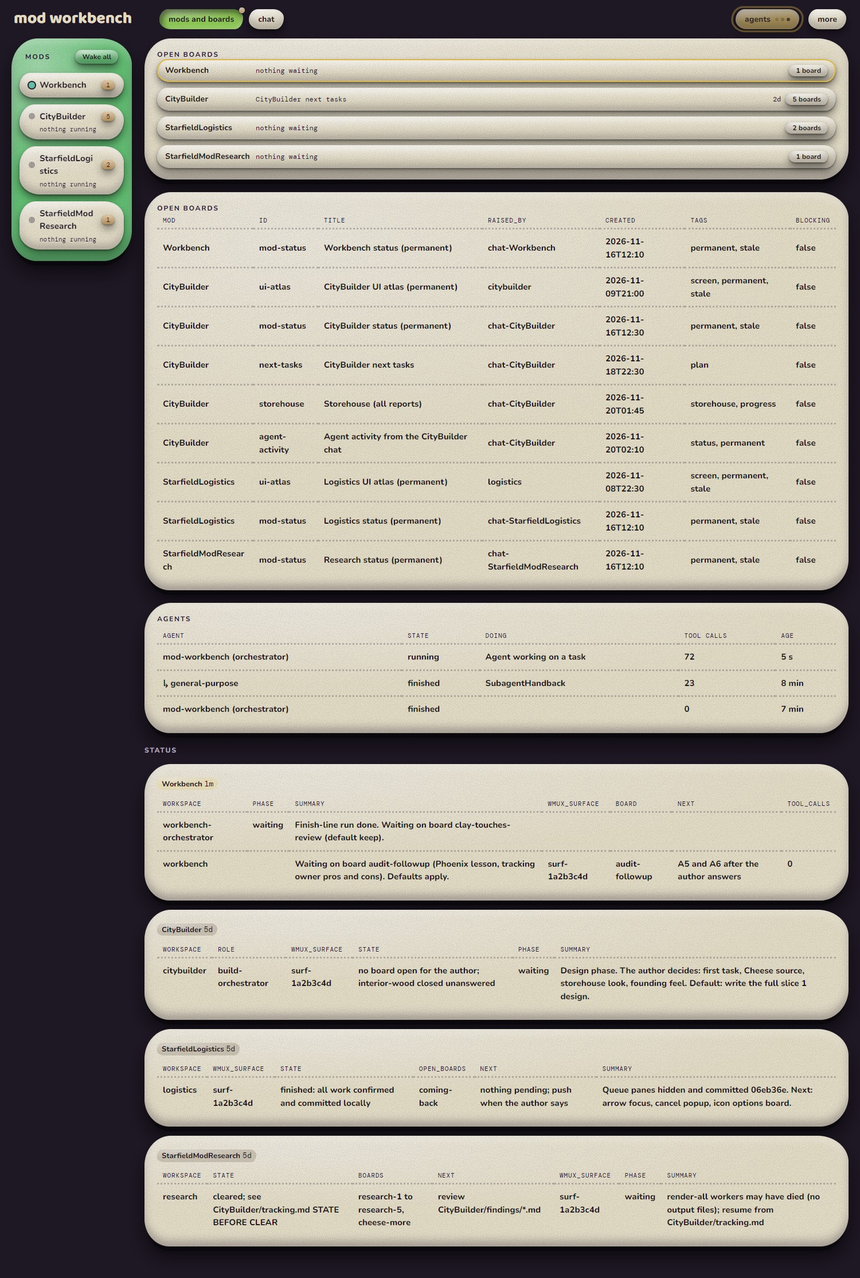
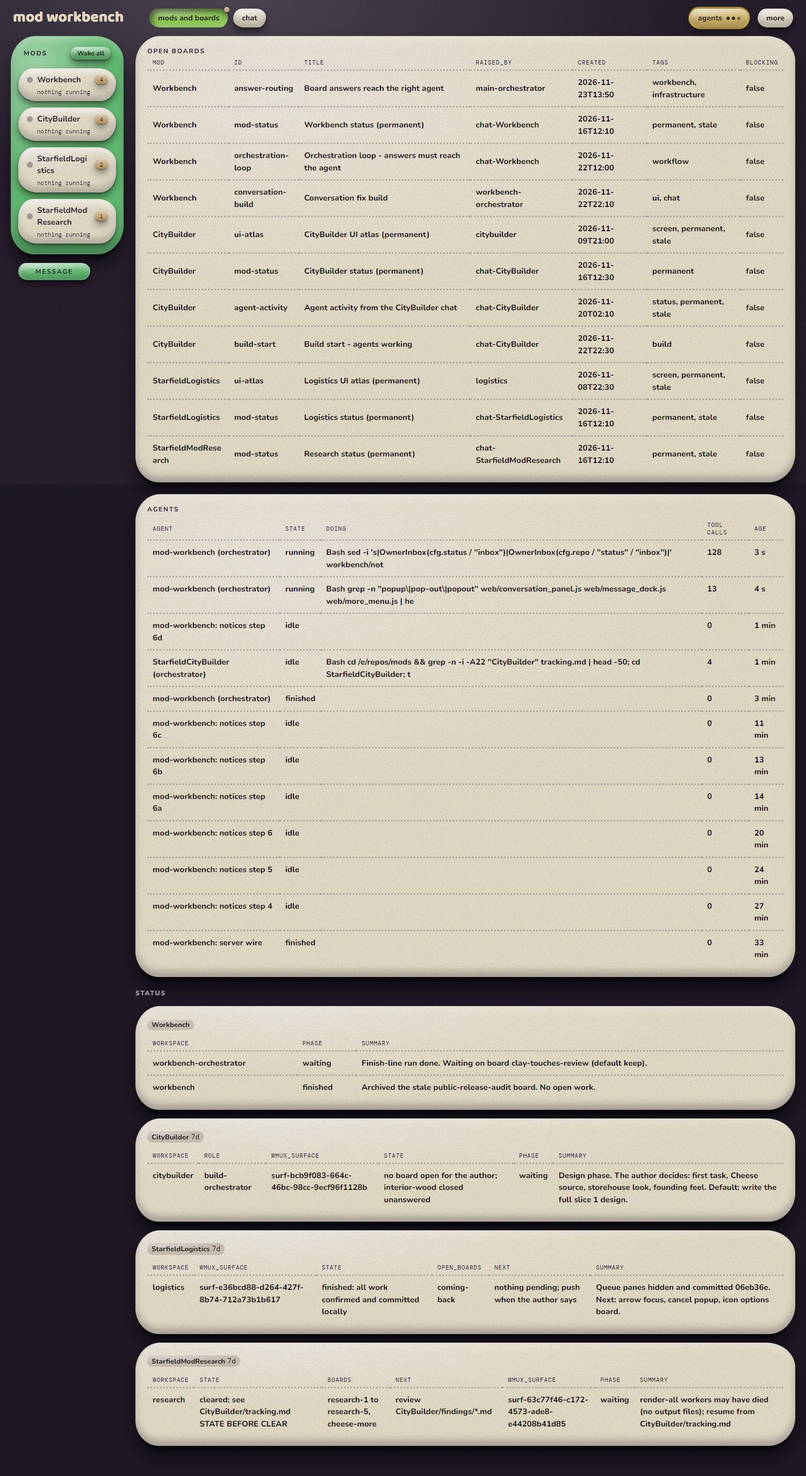
Add chat popup screenshot, retake overview screenshot

diff --git a/README.md b/README.md
@@ -69,6 +69,10 @@ The overview page lists open boards, agents with their state, and the status of 
 
 ![The overview page](docs/img/orchestration.jpg)
 
+The message popup sits at the right edge of every page. Here it floats over a status board, with the conversation open.
+
+![The message popup with a conversation open](docs/img/chat-popup-board.png)
+
 ## Requirements
 
 - Windows. The app uses Windows toast notifications and Windows scripts.
